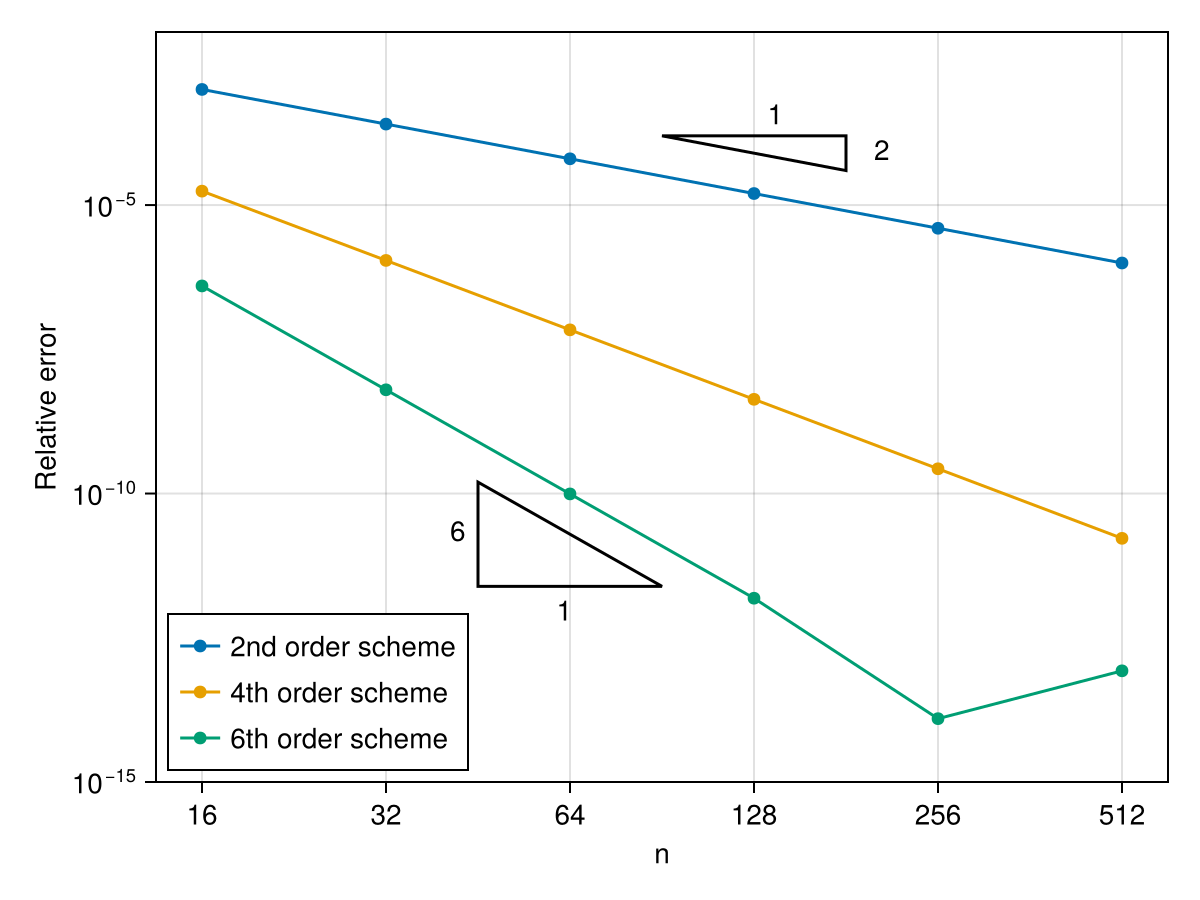
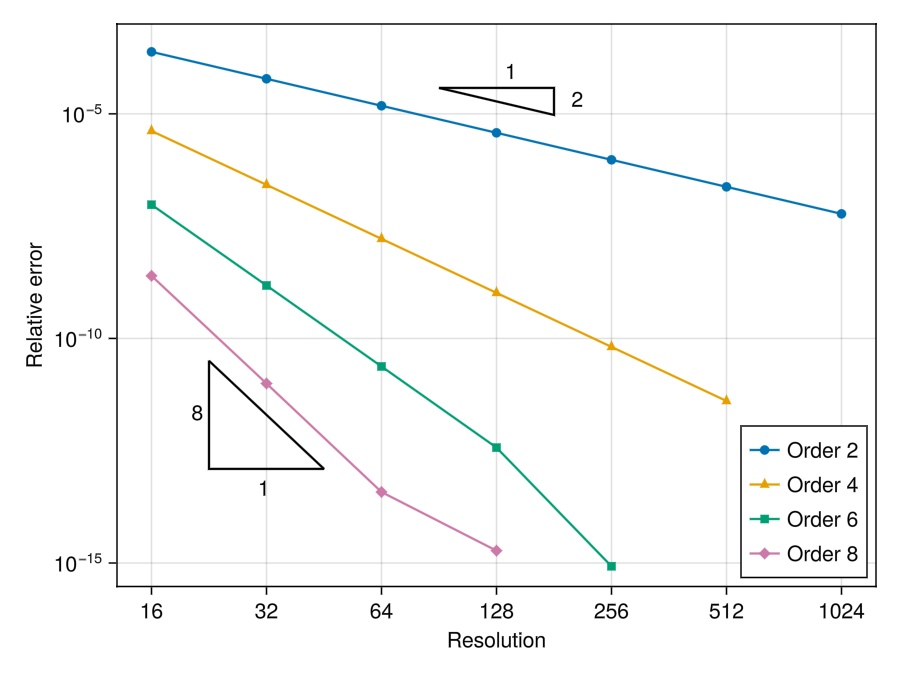
docs: update outlook in README

diff --git a/README.md b/README.md
@@ -65,19 +65,23 @@ Disretization orders:
 - [x] Second order
 - [x] Fourth order
 - [x] Sixth order
+- [x] Eight order
 
 ![Convergence](assets/convergence.png)
+![Timing](assets/timing.png)
 
 Goodies:
 
-- [ ] The velocity gradient and its waste products
-    - [ ] Invariants
-    - [ ] Turbulence statistics and scale numbers
+- [x] The velocity gradient and its waste products
+    - [x] Invariants
+    - [x] Turbulence statistics and scale numbers
 - [ ] Spectra
 
 Closure models:
 
 - [ ] All the classics
+    - [x] Smagorinsky
+    - [x] Gradient model
 - [ ] Nice interface for plugging in new ones
 
 Differentiability
